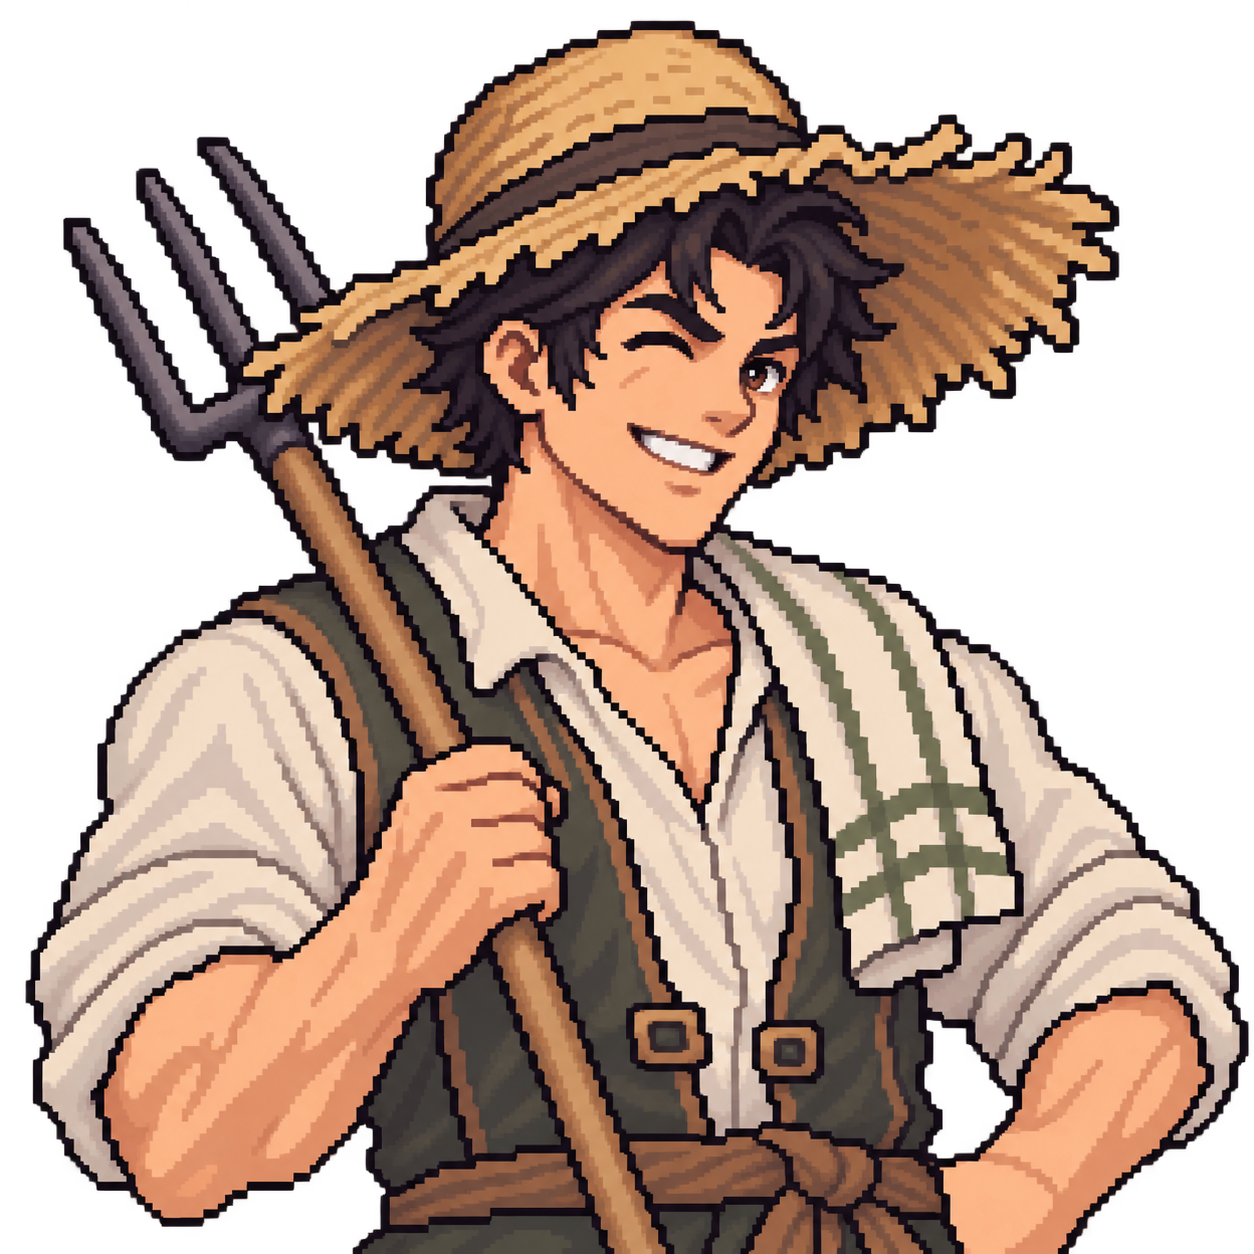
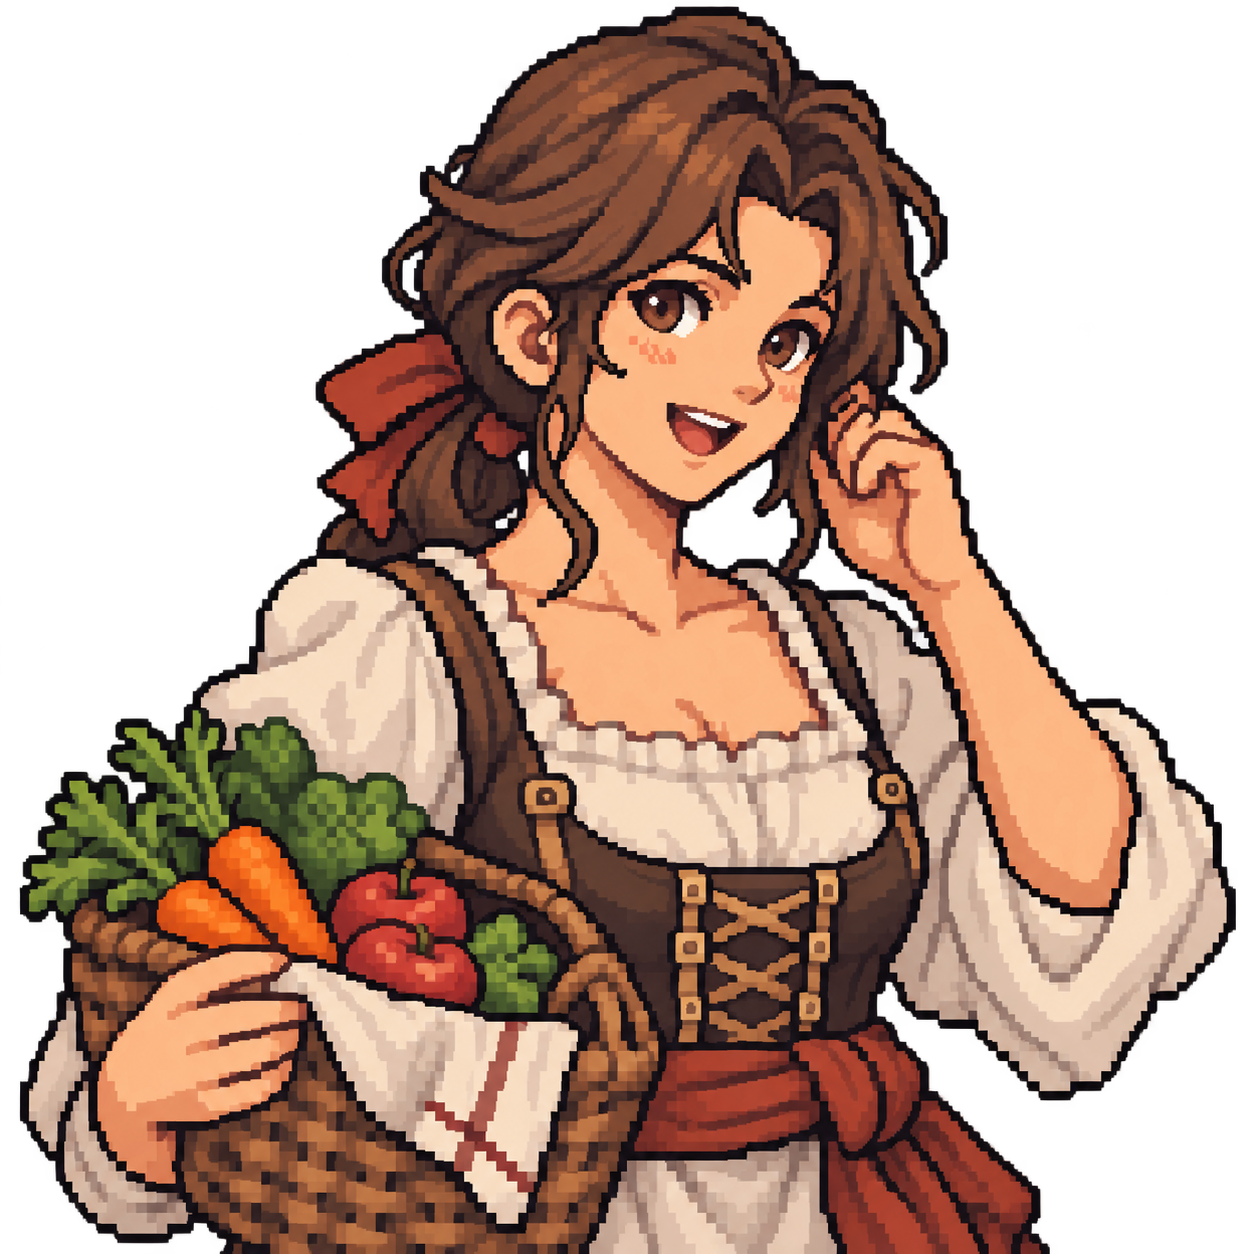
更新農夫圖

diff --git a/index.html b/index.html
@@ -12922,19 +12922,27 @@ let TALENT_CURVE = [
     // ============ 劇情演出系統 + 新手引導系統 (依 text 工作表建置，v2 修正版) ============
     // ================================================================
 
-    // ---------- 角色立繪(僅提供艾琳/主角/公會長三張，其餘角色沒有立繪則不顯示) ----------
-    // 圖片依角色名稱動態組成 assets/images/text/text_<角色名稱>.png，不需要在這裡填 src。
-    // 要新增一個有立繪的角色：在下面加一行 { 側邊位置 }，並把對應的 text_<角色名稱>.png 放進
-    // assets/images/text/ 資料夾即可。side 決定對話時要顯示在畫面左/右/中間，需要人工指定。
+    // ---------- 角色立繪 ----------
+    // 圖片依角色名稱動態組成 assets/images/text/<角色名稱>.png(檔名不用加 text_ 前綴)，
+    // 不需要在這裡填 src。要新增一個有立繪的角色：在下面加一行 { side }，並把對應的
+    // <角色名稱>.png 放進 assets/images/text/ 資料夾即可。角色名稱要跟 text 分頁對話裡
+    // 「角色名：」的名稱完全一致(逐字比對，包含全形/半形冒號前的文字)，否則抓不到圖。
+    // side 決定對話時要顯示在畫面左/右/中間，這是導演選擇，沒辦法從檔名自動判斷，需要人工指定。
     const STORY_PORTRAITS = {
       'hero': { side: 'right' },
       '艾琳': { side: 'left' },
       '公會長': { side: 'left' },
       '魔王': { side: 'left' },
-      '永恆聖鏡': { side: 'center' }
+      '魔王奧斯維德': { side: 'left' }, // 與「魔王」共用同一張立繪美術，供劇情之後改用全名時直接生效
+      '永恆聖鏡': { side: 'center' },
+      '教官': { side: 'left' },
+      '露娜': { side: 'left' },
+      '艾德蒙': { side: 'center' }, // 與露娜常在同一幕交替對話，用不同側避免互相蓋掉
+      '村民': { side: 'left' },
+      '農夫': { side: 'left' }
     };
     function storyPortraitSrc(name) {
-      return `assets/images/text/text_${name}.png`;
+      return `assets/images/text/${name}.png`;
     }
 
     const RESULT_VICTORY_LOGO = 'assets/images/img_c14e72d0dde2.png';

diff --git a/assets/images/README.md b/assets/images/README.md
@@ -27,9 +27,11 @@
 
 ## `text/` — 劇情對話立繪
 
-檔名：`text_<角色中文名稱>.png`
+檔名：`<角色中文名稱>.png`（**不要**加 `text_` 前綴，資料夾本身已經是分類了）
 
-`<角色中文名稱>` 對應劇情文字裡「角色名：對話內容」的角色名稱（例如 `艾琳`、`魔王`、`永恆聖鏡`）。
+`<角色中文名稱>` 必須跟 text 分頁對話裡「角色名：對話內容」的角色名稱**逐字完全一樣**
+（例如 `艾琳`、`魔王`、`永恆聖鏡`）——差一個字、或多打一個空格都會抓不到圖，請直接複製
+xlsx 裡冒號前面的文字來當檔名，最保險。
 
 ⚠ 這一類多一個步驟：新增一個要顯示立繪的角色時，除了放圖片，還要到 `index.html` 裡搜尋
 `STORY_PORTRAITS`，加一行指定這個角色的立繪要顯示在畫面的左邊/右邊/中間，例如：
@@ -40,6 +42,10 @@
 
 這一步沒辦法從檔名自動判斷（要顯示在哪一側是導演選擇），需要人工指定一次；指定過後，
 之後只要換圖片檔案即可，不用再改這一行。
+
+同一個角色如果劇情裡會用不同稱呼講話（例如「魔王」跟「魔王奧斯維德」都可能出現），
+兩個名稱都要各自有一張對應的圖（可以是同一張圖存兩份不同檔名），並在 `STORY_PORTRAITS`
+各自加一行，這樣不管劇情用哪個稱呼，立繪都抓得到。
 
 ## `equipment/` — 裝備 ICON（目前保留，尚未使用）
 
